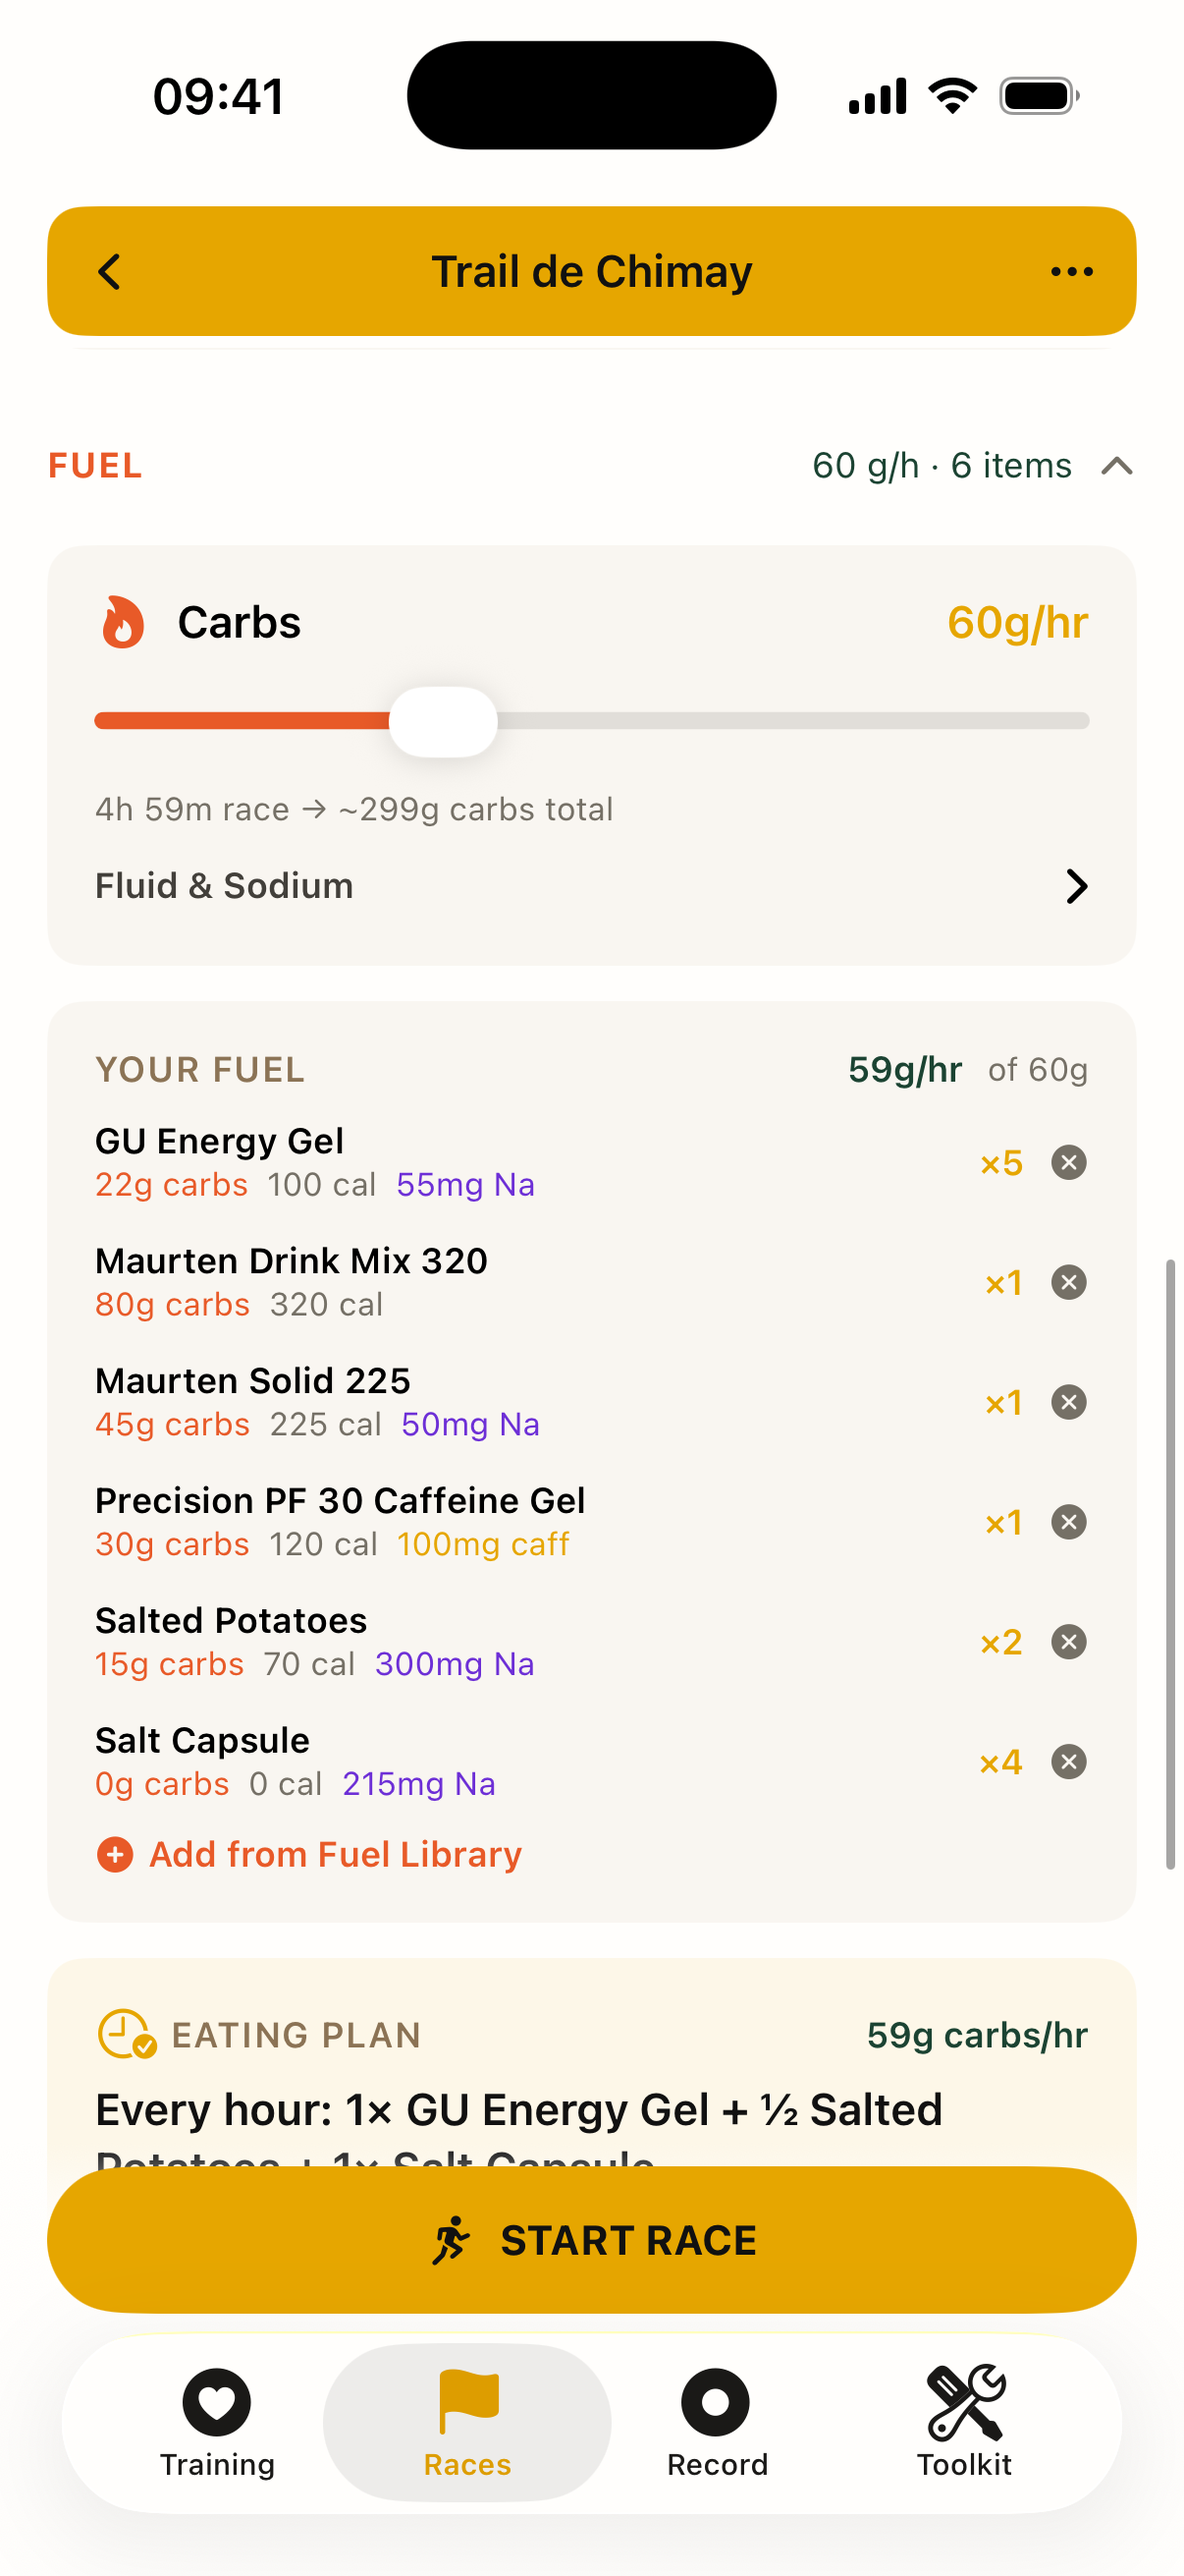
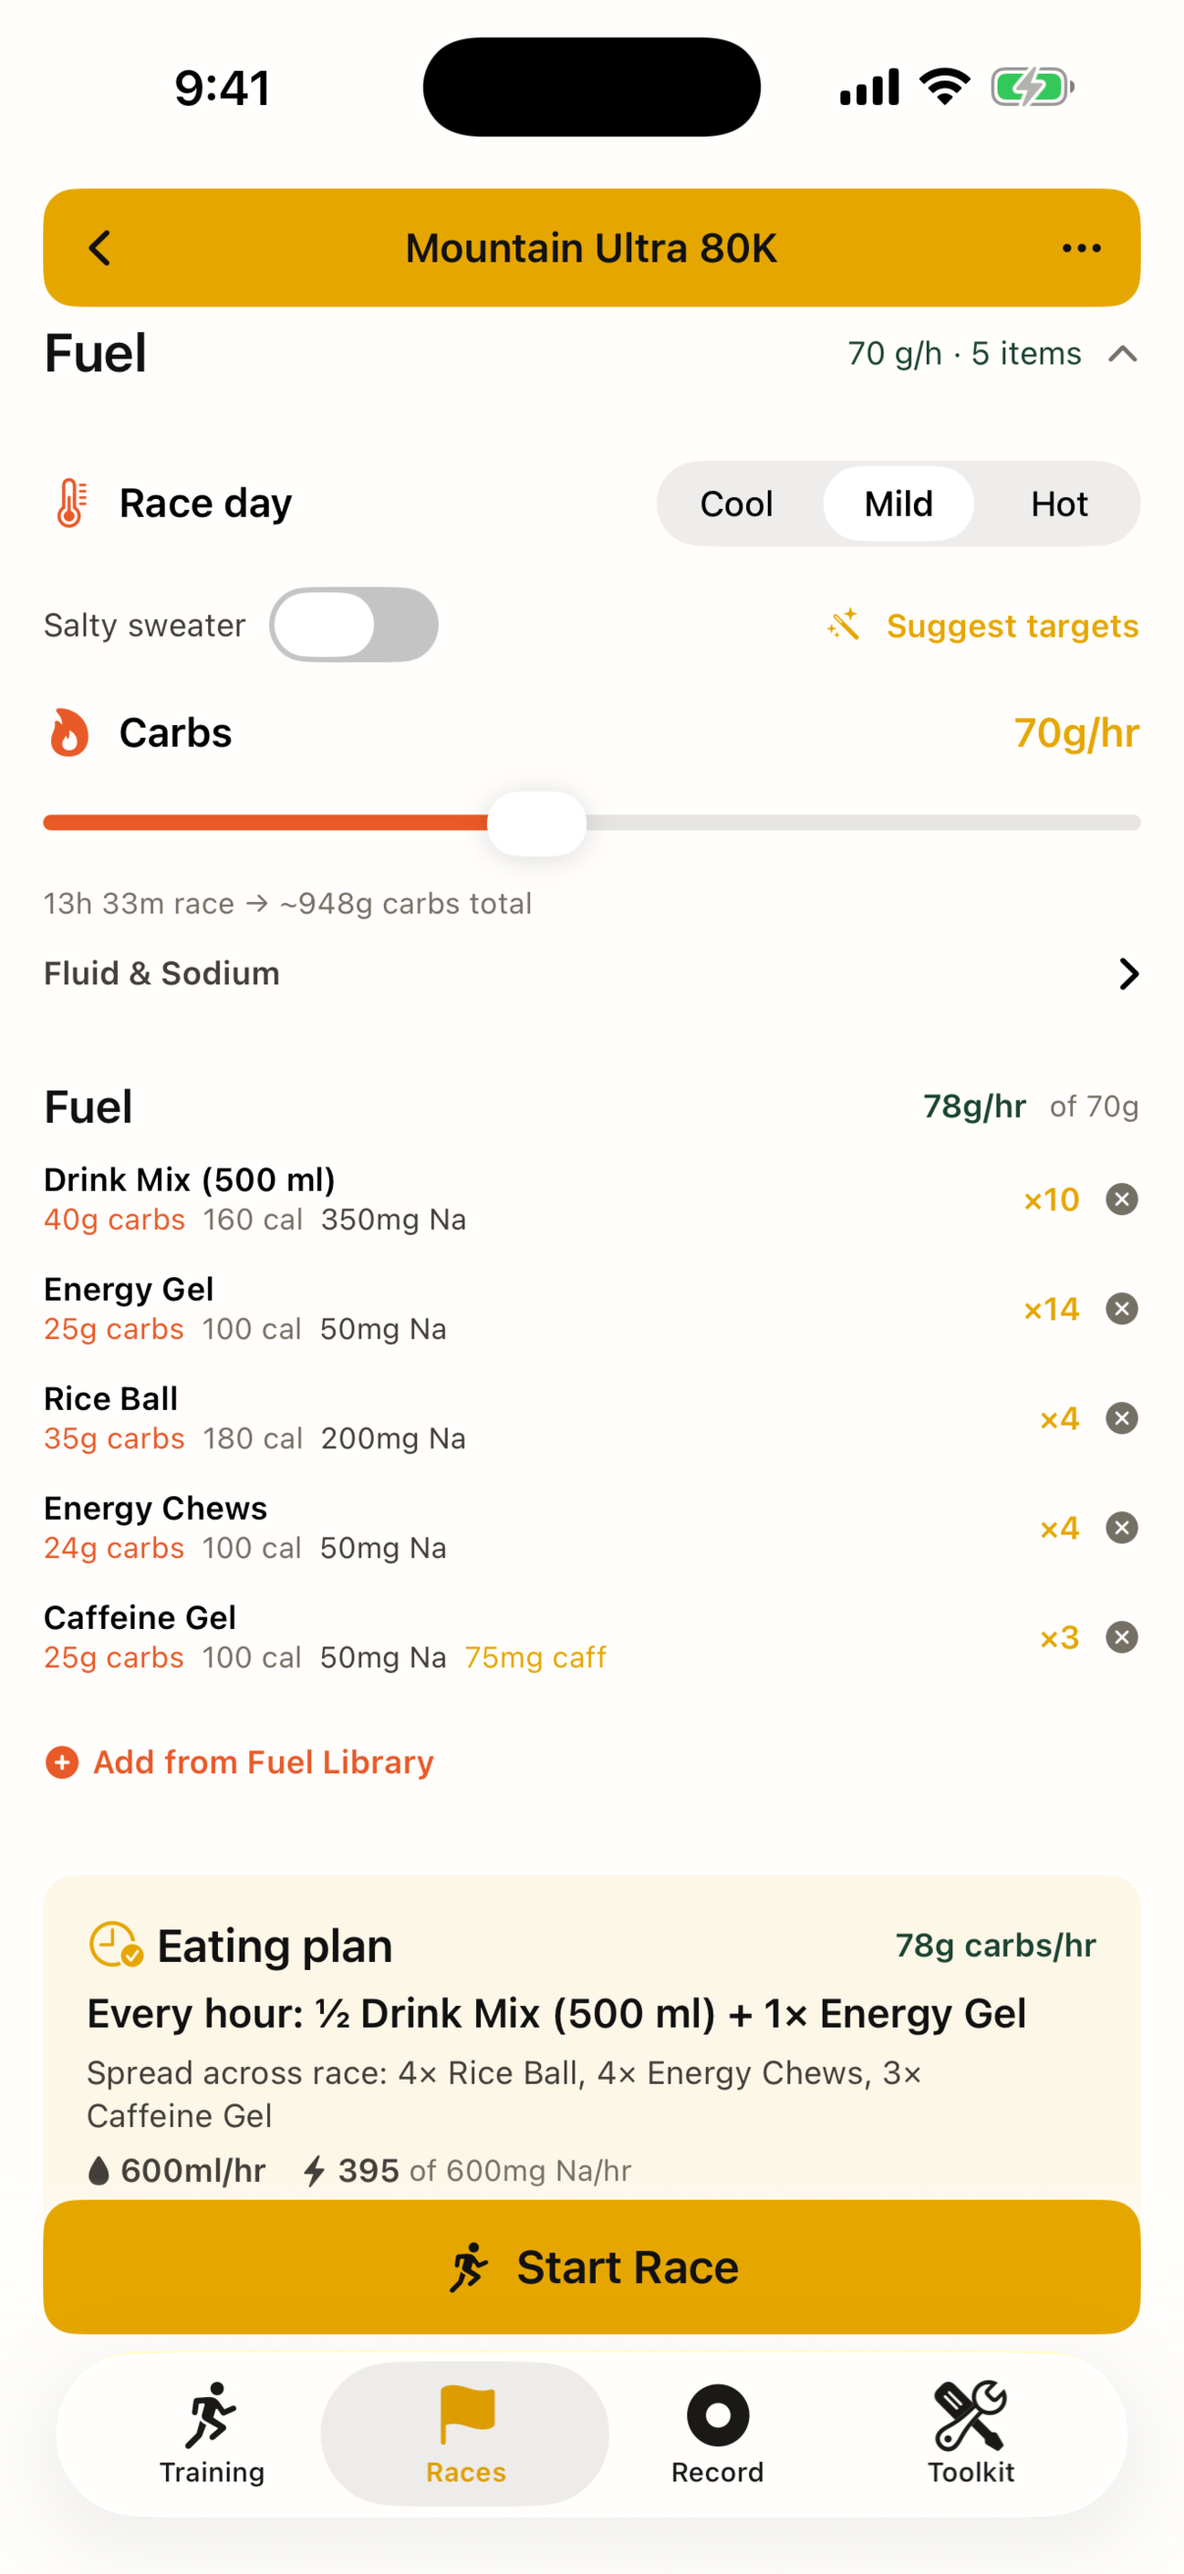
Pocket Crew: new screenshots and privacy section (Apple Health, Route Builder services)
Claude-Session: https://claude.ai/code/session_01Uet53oNgPKDTRwzqkc6d2T

diff --git a/pocketcrew/index.html b/pocketcrew/index.html
@@ -154,7 +154,7 @@ footer{padding-top:28px;color:var(--muted);font-size:.9rem;display:flex;gap:18px
 <section>
   <h2 id="privacy">Privacy</h2>
   <div class="privacy">
-    <p style="margin:0 0 8px"><strong>Pocket Crew collects no data.</strong> There is no account, no analytics SDK and no server. Race plans, training runs, fuel and gear libraries live in files on your iPhone. If you enable iCloud sync, they are copied to your own iCloud Drive and nowhere else. Location is used only while you are tracking a run, and only on the device.</p>
+    <p style="margin:0 0 8px"><strong>Pocket Crew collects no data.</strong> There is no account, no analytics SDK and no server of ours. Race plans, training runs, fuel and gear libraries live in files on your iPhone. If you enable iCloud sync, they are copied to your own iCloud Drive and nowhere else. Location is used only while you are tracking a run, and only on the device. If you allow Apple Health, Pocket Crew saves your runs and races there (workout, distance, energy and route) and reads your heart rate during a run; it never sends Health data anywhere. When you draw a course in the Route Builder, the points you place are sent to the public BRouter routing service and to OpenTopoData for elevation, with no name or account attached.</p>
     <p style="margin:0;color:var(--muted)">Questions: <a href="mailto:gentlepace.app@gmail.com">gentlepace.app@gmail.com</a></p>
   </div>
 </section>
